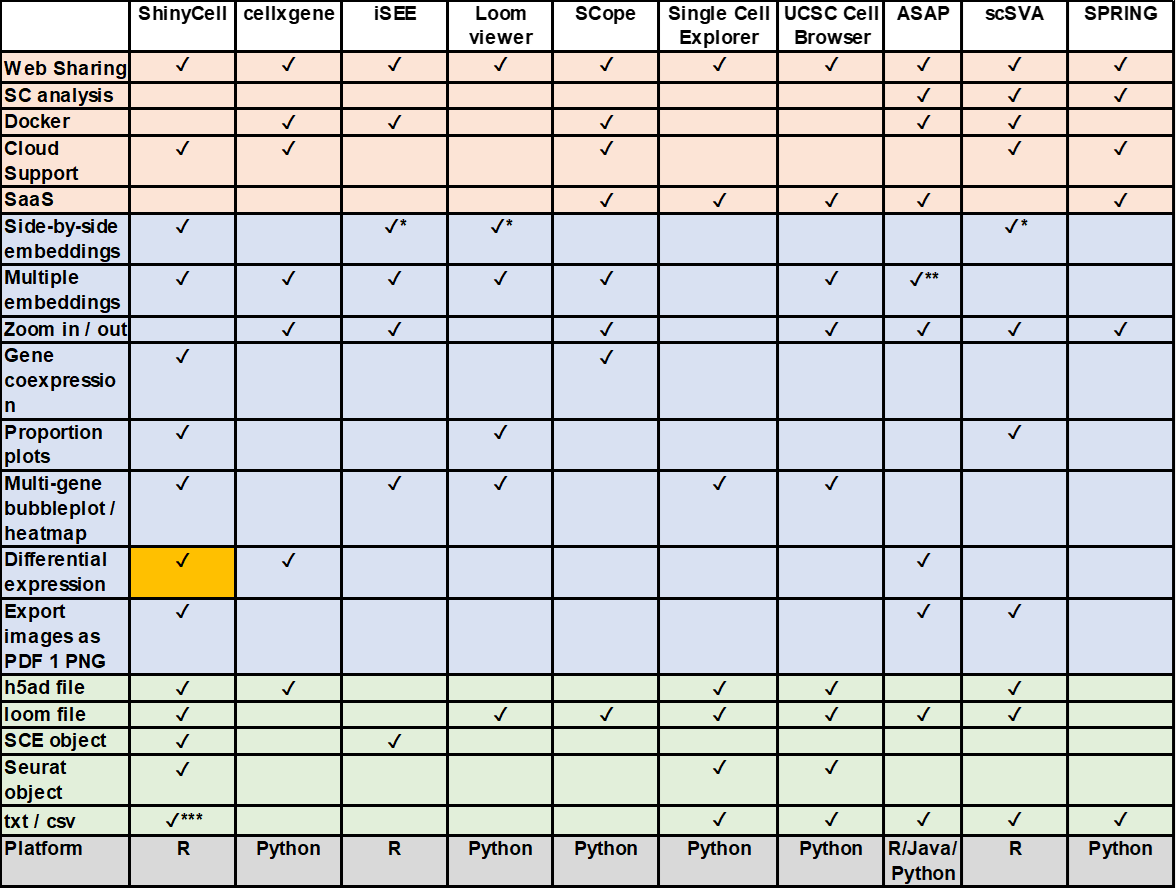
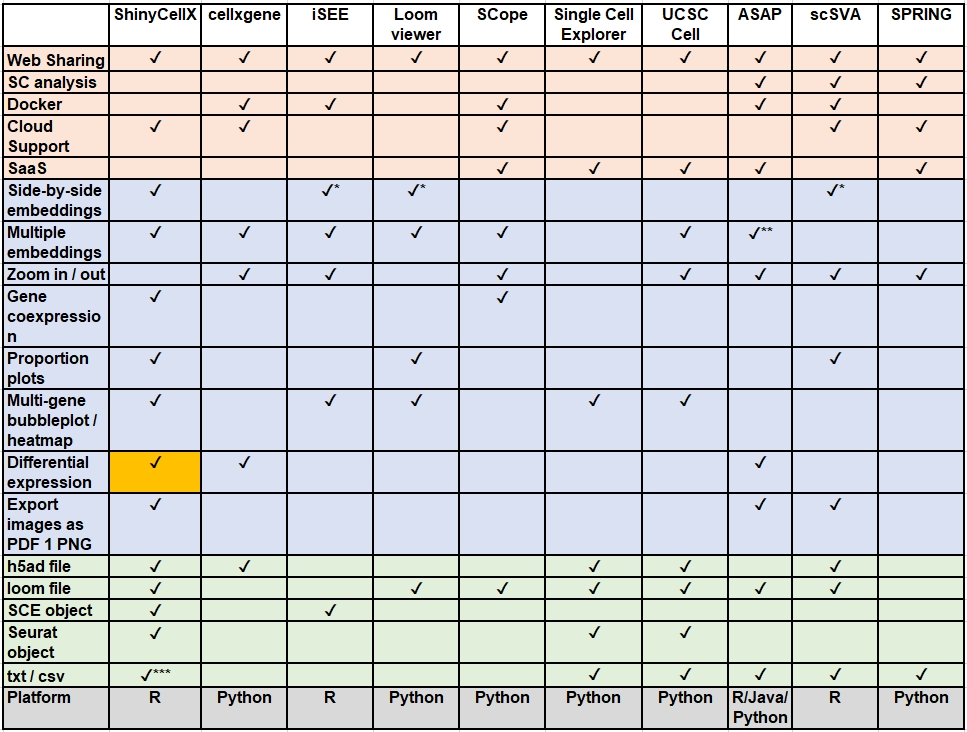
ShinyCellX

Changed region(s): [[0.0, 0.0, 1.0, 1.0], [0.8997, 0.7514, 0.9307, 0.8415], [0.8997, 0.6612, 0.9307, 0.6913]]

diff --git a/README.md b/README.md
@@ -1,54 +1,8 @@
-# ShinyCell package
-`ShinyCell` is a R package that allows users to create interactive Shiny-based 
-web applications to visualise single-cell data via (i) visualising cell 
-information and/or gene expression on reduced dimensions e.g. UMAP, (ii) 
-visualising the coexpression of two genes on reduced dimensions, (iii) 
-visualising the distribution of continuous cell information e.g. nUMI / module 
-scores using violin plots / box plots, (iv) visualising the composition of 
-different clusters / groups of cells using proportion plots and (v) 
-visualising the expression of multiple genes using bubbleplots / heatmap. 
-Examples of ShinyCell-generated shiny apps for single and multi datasets can 
-be found at http://shinycell1.ddnetbio.com and http://shinycell2.ddnetbio.com 
-respectively.
+# Background
+`ShinyCellX` is an evolution of [ShinyCell](https://github.com/SGDDNB/ShinyCell) designed to extend the functionality of ShinyCell. On the basis of ShinyCell, a differential expression analysis module has been added, the group drawing module has been optimised, and the user is able to adjust the order of the groups freely.
 
-If you are using `ShinyCell`, please cite [Ouyang et al. ShinyCell: Simple and 
-sharable visualisation of single-cell gene expression data. Bioinformatics, 
-doi:10.1093/bioinformatics/btab209](
-http://dx.doi.org/10.1093/bioinformatics/btab209). The manuscript 
-is recently accepted and we will update the full citation when it is available.
-
-Key features of `ShinyCell` include: 
-
-1. Written in R and uses the Shiny package, allowing for easy sharing on online 
-   platforms e.g. [shinyapps.io](https://www.shinyapps.io/) and Amazon Web 
-   Services (AWS) or be hosted via Shiny Server
-
-2. Supports all of the major single-cell data formats (h5ad / loom / Seurat / 
-   SingleCellExperiment) and we also include a simple tutorial to process 
-   plain-text gene expression matrices
-  
-3. Web interface have low memory footprint due to the use of hdf5 file system 
-   to store the gene expression. Only the expression of genes that are plotted 
-   are loaded into memory
-
-4. Inclusion of less common single-cell visualisations, namely coexpression 
-   plots and proportion plots that provide additional information on top of 
-   low-dimensional embeddings
-  
-5. Users can export visualisations as PDF or PNG images for presentation or 
-   publication use
-
-6. Ability to include multiple single-cell datasets into a single Shiny web app
-
-7. It is easy to use and customise aethetsics e.g. label names and colour 
-   palettes. In the simplest form, ShinyCell can convert an input single-cell 
-   data into a Shiny app with five lines of code 
-   (see [Quick Start Guide](#quick-start-guide))
-
-We also compared ShinyCell with nine other popular scRNA-seq visualisation 
-tools, which further highlights the key features of `ShinyCell`. For a more 
-detailed description, see the 
-[Supplementary Information](docs/OuyangEtAl_Shinycell_SuppInfo.pdf).
+We also compared ShinyCellX with nine other popular scRNA-seq visualisation 
+tools, which further highlights the key features of `ShinyCellX`. 
 
 ![](images/comparison.png)
 
@@ -85,9 +39,9 @@ https://htmlpreview.github.io/?https://github.com/SGDDNB/ShinyCell/blob/master/d
 
 # Installation
 First, users can run the following code to check if the packages required by 
-`ShinyCell` exist and install them if required:
+`ShinyCellX` exist and install them if required:
 ``` r
-reqPkg = c("data.table", "Matrix", "hdf5r", "reticulate", "ggplot2", 
+reqPkg = c("shinyjqui","data.table", "Matrix", "hdf5r", "reticulate", "ggplot2", 
            "gridExtra", "glue", "readr", "RColorBrewer", "R.utils", "Seurat", "presto", "dplyr","rio")
 newPkg = reqPkg[!(reqPkg %in% installed.packages()[,"Package"])]
 if(length(newPkg)){install.packages(newPkg)}
@@ -100,7 +54,7 @@ Furthermore, on the system where the Shiny app will be deployed, users can run
 the following code to check if the packages required by the Shiny app exist 
 and install them if required:
 ``` r
-reqPkg = c("shiny", "shinyhelper", "data.table", "Matrix", "DT", "hdf5r", 
+reqPkg = c("shiny", "shinyhelper", "shinyjqui", "data.table", "Matrix", "DT", "hdf5r", 
            "reticulate", "ggplot2", "gridExtra", "ggdendro", "presto", "dplyr","rio")
 newPkg = reqPkg[!(reqPkg %in% installed.packages()[,"Package"])]
 if(length(newPkg)){install.packages(newPkg)}
@@ -108,7 +62,7 @@ if(length(newPkg)){install.packages(newPkg)}
 
 `ShinyCell` can then be installed from GitHub as follows:
 ``` r
-devtools::install_github("chenhy-lab/ShinyCell")
+devtools::install_github("chenhy-lab/ShinyCellX")
 ```
 
 
@@ -130,7 +84,7 @@ A shiny app can then be quickly generated using the following code:
  
 ``` r
 library(Seurat)
-library(ShinyCell)
+library(ShinyCellX)
 
 getExampleData()                       # Download example dataset (~200 MB)
 seu = readRDS("readySeu_rset.rds")
@@ -148,7 +102,7 @@ or be hosted via Shiny Server. For further details, refer to
 [Instructions on how to deploy ShinyCell apps online](
 https://htmlpreview.github.io/?https://github.com/SGDDNB/ShinyCell/blob/master/docs/4cloud.html).
 
-The shiny app contains seven tabs (highlighted in blue box), with the opening 
+The shiny app contains eight tabs (highlighted in blue box), with the opening 
 page showing the first tab "CellInfo vs GeneExpr" (see below), plotting both 
 cell information and gene expression side-by-side on reduced dimensions e.g. 
 UMAP. Users can click on the toggle on the bottom left corner to display the 
@@ -177,9 +131,9 @@ instead of proportions.
 
 ![](images/quick-shiny4.png)
 
-The seventh tab "Bubbleplot / Heatmap" allows users to visualise the 
+The seventh tab "Bubbleplot / Heatmap / Violinplot" allows users to visualise the 
 expression of multiple genes across each cluster / group using bubbleplots / 
-heatmap. The genes (rows) and groups (columns) can be furthered clustered 
+heatmap / violinplot. The genes (rows) and groups (columns) can be furthered clustered 
 using hierarchical clustering.
 
 ![](images/quick-shiny5.png)
@@ -190,45 +144,5 @@ differential expression analysis grouped by categorical cell information
 
 ![](images/quick-shiny6.png)
 
-# Frequently Asked Questions
-- Q: How much memory / storage space does `ShinyCell` and the Shiny app consume?
-  - A: The Shiny app itself consumes very little memory and is meant to be a 
-       heavy-duty app where multiple users can access the app simultaneously. 
-       Unlike typical R objects, the entire gene expression matrix is stored 
-       on disk and *not on memory* via the hdf5 file system. Also, the hdf5 
-       file system offers superior file compression and takes up less storage 
-       space than native R file formats such as rds / Rdata files.
-  - A: It should be noted that a large amount of memory is required when 
-       *building* the Shiny app. This is because the whole Seurat / SCE object 
-       has to be loaded onto memory and additional memory is required to 
-       generate the required files. From experience, a typical laptop with 8GB 
-       RAM can handle datasets around 30k cells while 16GB RAM machines can 
-       handle around 60k-70k cells. 
-       
-- Q: I have generated additional dimension reductions (e.g. force-directed 
-layout / MDS / monocle2 etc.) and would like to include them into the Shiny 
-app. How do I do that?
-  - A: `ShinyCell` automatically retrieves dimension reduction information from 
-       the Seurat or SCE object. Thus, the additional dimension reductions 
-       have to be added into the Seurat or SCE object before running `ShinyCell`. 
-  - For Seurat objects, users can refer "Storing a custom dimensional reduction 
-       calculation" in https://satijalab.org/seurat/v3.0/dim_reduction_vignette.html
-  - For SCE objects, users can refer to https://bioconductor.org/packages/devel/bioc/vignettes/SingleCellExperiment/inst/doc/intro.html#3_Adding_low-dimensional_representations
-  
-- Q: I have both RNA and integrated data in my Seurat object. How do I specify 
-which gene expression assay to plot in the Shiny app?
-  - A: Only one gene expression assay can be visualised per dataset. To 
-       specify the assay, use the `gex.assay = "integrated` argument in the 
-       `makeShinyApp()` or `makeShinyFiles()` functions. If users want to 
-       visualise both gene expression, they have to treat each assay as an 
-       individual dataset and include multiple datasets into a single shiny 
-       app, following the [Tutorial for creating a ShinyCell app containing several single-cell datasets](
-https://htmlpreview.github.io/?https://github.com/SGDDNB/ShinyCell/blob/master/docs/2multi.html)
 
-
-
-<br/><br/>
-<br/><br/>
-<br/><br/>
-<br/><br/>
 <br/><br/>
